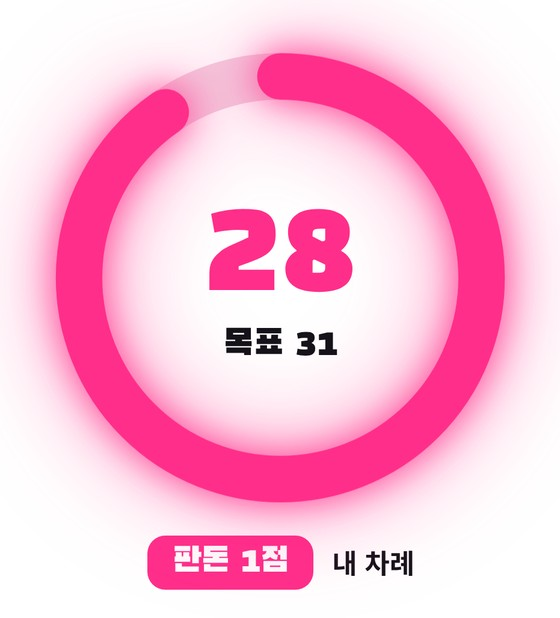
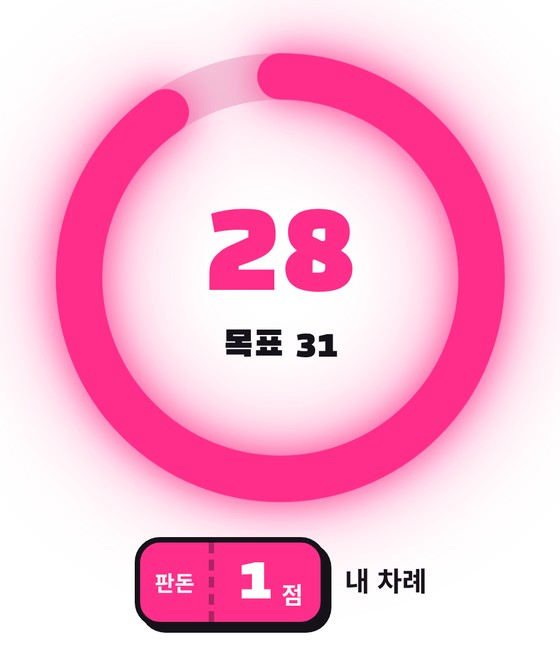
남은 칸 표시 제거, 판돈을 단계별로 달아오르는 티켓으로 (판돈 흐름 표시), 설명서 캡처 갱신
Claude-Session: https://claude.ai/code/session_01NPydC4cgnycGE27ajFik3f

diff --git a/index.html b/index.html
@@ -44,8 +44,22 @@ button:focus-visible{outline:3px solid var(--c);outline-offset:2px}
 .ring .num b.pop{transform:scale(1.15)}
 .info h2{margin:0 0 6px;font:400 30px/1.1 "Black Han Sans"}
 .info p{margin:0 0 10px;color:var(--sub)}
-.stake{display:inline-block;font:400 22px "Black Han Sans";padding:4px 14px;border-radius:10px;background:var(--m);color:#fff;margin-bottom:10px}
-.stake.hot{background:var(--k);color:var(--y)}
+.stake{position:relative;display:inline-flex;align-items:center;gap:0;margin-bottom:14px;border-radius:14px;background:var(--m);color:#fff;border:3px solid #16121a;box-shadow:4px 4px 0 #16121a;transition:background .3s,color .3s}
+.stake .sk{align-self:stretch;display:grid;place-items:center;padding:0 10px;font:700 13px/1 "Noto Sans KR",sans-serif;border-right:3px dashed rgba(22,18,26,.35)}
+.stake b{font:400 44px/1 "Black Han Sans",sans-serif;padding:8px 4px 8px 14px;min-width:1.1em;text-align:right}
+.stake .su{font:700 15px/1 "Noto Sans KR",sans-serif;align-self:flex-end;padding:0 14px 12px 3px}
+.stake .sch{display:flex;align-items:center;gap:3px;padding:0 0 0 12px;font:400 15px/1 "Black Han Sans",sans-serif;opacity:.9}
+.stake .sch:empty{display:none}
+.stake .sch i{font-style:normal}.stake .sch i:last-child{display:none}.stake .sch em{font-style:normal;font-size:11px;opacity:.7}
+.stake[data-t="2"]{background:#16121a;color:var(--y);box-shadow:4px 4px 0 var(--m)}
+.stake[data-t="2"] .sk{border-color:rgba(255,210,63,.35)}
+.stake[data-t="3"]{background:var(--y);color:#16121a;box-shadow:5px 5px 0 var(--m);animation:wob 1.6s ease-in-out infinite}
+.stake[data-t="4"]{background:#16121a;color:var(--y);box-shadow:0 0 0 3px var(--m),0 0 22px 4px rgba(255,46,138,.65),5px 5px 0 var(--m);animation:wob .7s ease-in-out infinite}
+.stake[data-t="4"] .sk{color:var(--m);border-color:rgba(255,46,138,.5)}
+.stake[data-t="4"] .sk::after{content:"잭팟";display:block;margin-top:3px;font-size:10px}
+.stake.up{animation:stup .6s cubic-bezier(.2,1.6,.4,1)}
+@keyframes stup{0%{transform:scale(1)}30%{transform:scale(1.35) rotate(-6deg)}60%{transform:scale(.95) rotate(2deg)}100%{transform:none}}
+@keyframes wob{0%,100%{transform:rotate(-2deg)}50%{transform:rotate(2deg)}}
 .turn{font-weight:700;font-size:18px}
 .hand h3{margin:0 0 6px;font-size:16px}
 .abil{margin:4px 0 10px;font-size:13px;color:var(--sub)}
@@ -310,7 +324,7 @@ button:focus-visible{outline:3px solid var(--c);outline-offset:2px}
   .back{width:16px;height:24px;border-radius:4px}.opp .backs{gap:3px;flex:none}
   .gauge{order:2;grid-template-columns:92px minmax(0,1fr);gap:12px;padding:10px 12px;border-radius:16px;text-align:left}
   .ring{max-width:92px;margin:0}.ring .num b{font-size:38px}.ring .num span{font-size:11px;margin-top:0}
-  .info h2{font-size:20px;margin:0 0 2px}.info p{display:none}.stake{font-size:15px;padding:2px 10px;margin-bottom:4px}.turn{font-size:14px}
+  .info h2{font-size:20px;margin:0 0 2px}.info p{display:none}.turn{font-size:14px}
   .phone{order:3;position:relative;top:0;flex:1;min-height:0;height:auto;max-width:none;margin:0;padding:0;background:none;border-radius:16px;box-shadow:0 0 0 1px var(--line)}
   .screen{border-radius:16px}.notch{display:none}.appbar{padding:8px 12px}.appbar b{font-size:16px}.appbar .dot{width:20px;height:20px}
   .post{padding:9px 11px;gap:8px;grid-template-columns:32px minmax(0,1fr)}.av{width:32px;height:32px}.pt{font-size:14px}
@@ -336,7 +350,7 @@ button:focus-visible{outline:3px solid var(--c);outline-offset:2px}
   .ring .num b{font-size:clamp(60px,18vw,92px)}
   .ring .num span{font:400 20px/1.1 "Black Han Sans",sans-serif;color:var(--ink);margin-top:4px}
   .info{display:flex;align-items:center;justify-content:center;gap:10px;flex-wrap:wrap}
-  .stake{font-size:19px;margin:0;padding:3px 14px}.turn{font-size:15px}
+  .stake{margin:0;box-shadow:3px 3px 0 #16121a}.stake b{font-size:32px;padding:6px 3px 6px 10px}.stake .sk{font-size:12px;padding:0 8px}.stake .su{font-size:13px;padding:0 10px 9px 2px}.stake .sch{font-size:13px;padding-left:9px}.turn{font-size:15px}
   /* 타임라인: 오른쪽 서랍 */
   .phone{position:fixed;top:0;right:0;bottom:0;left:auto;width:min(88vw,400px);height:auto;max-width:none;margin:0;padding:0;z-index:4;border-radius:20px 0 0 20px;background:var(--card);box-shadow:-12px 0 40px rgba(0,0,0,.35);transform:translateX(105%);transition:transform .28s cubic-bezier(.2,.8,.2,1)}
   .screen{border-radius:20px 0 0 20px;padding-top:env(safe-area-inset-top)}
@@ -393,8 +407,7 @@ button:focus-visible{outline:3px solid var(--c);outline-offset:2px}
         <div class="num"><div><b id="gNum">0</b><span id="gTarget">목표 31</span></div></div>
       </div>
       <div class="info">
-        <div class="stake" id="stake">판돈 1점</div>
-        <h2 id="gapLine">31칸 남음</h2>
+        <div class="stake" id="stake" data-t="1"><span class="sk">판돈</span><span class="sch" id="stakeChain"></span><b id="stakeN">1</b><span class="su">점</span></div>
         <div class="turn" id="turnLine">내 차례</div>
       </div>
     </div>
@@ -856,11 +869,11 @@ const NET={on:false,role:null,peer:null,conn:null,code:'',hostCast:null,guestCas
 const PH={id:'?',name:'?',v:0,text:''};
 function snap(){
   const mask=(P,hide)=>({...P,deck:P.deck.length,hand:hide?P.hand.length:P.hand,used:[],known:hide?[]:P.known});
-  return{hist:G.hist,busts:G.busts,round:G.round,score:G.score,wins:G.wins,starter:G.starter,cur:G.cur,gauge:G.gauge,target:G.target,stake:G.stake,busy:G.busy,over:G.over,
+  return{hist:G.hist,busts:G.busts,stakeHist:G.stakeHist,round:G.round,score:G.score,wins:G.wins,starter:G.starter,cur:G.cur,gauge:G.gauge,target:G.target,stake:G.stake,busy:G.busy,over:G.over,
     P:G.P.length?[mask(G.P[0],true),mask(G.P[1],false)]:[]};
 }
 function applySnap(s){
-  Object.assign(G,{hist:(s.hist||[]).map(h=>({...h,w:h.w===null?null:1-h.w})),busts:s.busts||0,round:s.round,score:[s.score[1],s.score[0]],wins:[s.wins[1],s.wins[0]],starter:1-s.starter,cur:1-s.cur,gauge:s.gauge,target:s.target,stake:s.stake,busy:s.busy,over:s.over});
+  Object.assign(G,{hist:(s.hist||[]).map(h=>({...h,w:h.w===null?null:1-h.w})),busts:s.busts||0,stakeHist:s.stakeHist||[s.stake],round:s.round,score:[s.score[1],s.score[0]],wins:[s.wins[1],s.wins[0]],starter:1-s.starter,cur:1-s.cur,gauge:s.gauge,target:s.target,stake:s.stake,busy:s.busy,over:s.over});
   const fix=P=>({...P,deck:Array(P.deck).fill(null),hand:typeof P.hand==='number'?Array(P.hand).fill(PH):P.hand});
   if(s.P.length)G.P=[fix(s.P[1]),fix(s.P[0])];
   render();
@@ -989,8 +1002,10 @@ function render(){
   $('vTarget').textContent=G.target;{const g=G.target-G.gauge;$('vGap').textContent=g>0?g+'칸':'도달'}$('vStake').textContent=G.stake+'점';
   const vb=$('vbar');vb.classList.toggle('hot',G.stake>1);vb.classList.toggle('near',G.target-G.gauge>0&&G.target-G.gauge<=5&&!G.over);
   const tm=$('turnMini');tm.textContent=G.over?'게임 끝':G.cur===ME?'· 내 차례':`· ${NAME[AI]} 차례`;tm.classList.toggle('wait',G.cur!==ME||G.over);
-  const st=$('stake');st.textContent=`판돈 ${G.stake}점`;st.classList.toggle('hot',G.stake>1);
-  const gap=G.target-G.gauge;$('gapLine').textContent=gap>0?`${gap}칸 남음`:'목표 도달';
+  {const st=$('stake'),n=G.stake;$('stakeN').textContent=n;st.dataset.t=n>=8?4:n>=4?3:n>=2?2:1;
+   const ch=G.stakeHist||[1];$('stakeChain').innerHTML=ch.length>1?ch.map(x=>`<i>${x}</i>`).join('<em>→</em>'):'';
+   if(render._st!==undefined&&n>render._st){st.classList.remove('up');void st.offsetWidth;st.classList.add('up')}render._st=n}
+  const gap=G.target-G.gauge;
   document.querySelector('.ring').classList.toggle('near',gap>0&&gap<=5&&!G.over);
   $('turnLine').textContent=G.over?'게임 끝':G.cur===ME?'내 차례':`${jo(NAME[AI],'이','가')} 고민 중…`;
   $('aiBacks').innerHTML=G.P[AI]?G.P[AI].hand.map(()=>'<i class="back"></i>').join(''):'';
@@ -1060,7 +1075,7 @@ function showResult(fin,w,wait){
 function newGame(){G.round=0;G.score=[0,0];G.wins=[0,0];G.hist=[];G.over=false;G.starter=Math.random()<.5?ME:AI;newRound()}
 function newRound(){
   G.round++;G.P=[freshPlayer(ME),freshPlayer(AI)];draw(ME,5);draw(AI,5);
-  G.gauge=0;G.target=31;G.stake=1;G.passes=0;G.busts=0;G.cur=G.starter;$('feed').innerHTML='';NET.ev({t:'clear'});
+  G.gauge=0;G.target=31;G.stake=1;G.stakeHist=[1];G.passes=0;G.busts=0;G.cur=G.starter;$('feed').innerHTML='';NET.ev({t:'clear'});
   log(`— ${G.round}판 시작. ${NAME[G.cur]} 선공 —`);startTurn();
 }
 
@@ -1090,7 +1105,7 @@ async function play(p,idx,choice,adj=0){
 
   if(ng===G.target&&!card.nofinish){bigHit(G.target);await sleep(2600);G.busy=false;return endRound(p)}
   if(ng>G.target||(ng===G.target&&card.nofinish)){   // 저스트 불가 카드로 목표에 딱 맞으면 버스트
-    const mult=card.triple?3:2,plus=SEAT.filter(k=>CASTS[k].bustPlus).length;G.stake=G.stake*mult+plus;G.target+=10;G.busts++;
+    const mult=card.triple?3:2,plus=SEAT.filter(k=>CASTS[k].bustPlus).length;G.stake=G.stake*mult+plus;G.target+=10;G.busts++;(G.stakeHist=G.stakeHist||[1]).push(G.stake);
     const drawers=[ME,AI].filter(q=>CASTS[SEAT[q]].bustDraw);drawers.forEach(q=>draw(q,CASTS[SEAT[q]].bustDraw));
     bustFx(postEl);render();bigBust(mult);await sleep(2300);
     log(`버스트! 묻고 ${mult===3?'트리플':'더블'}.${plus?' 흉조로 +1,':''} 판돈 ${G.stake}점, 목표 ${G.target}.${drawers.map(q=>` ${NAME[q]} 2장 뽑음`).join('')}`);
